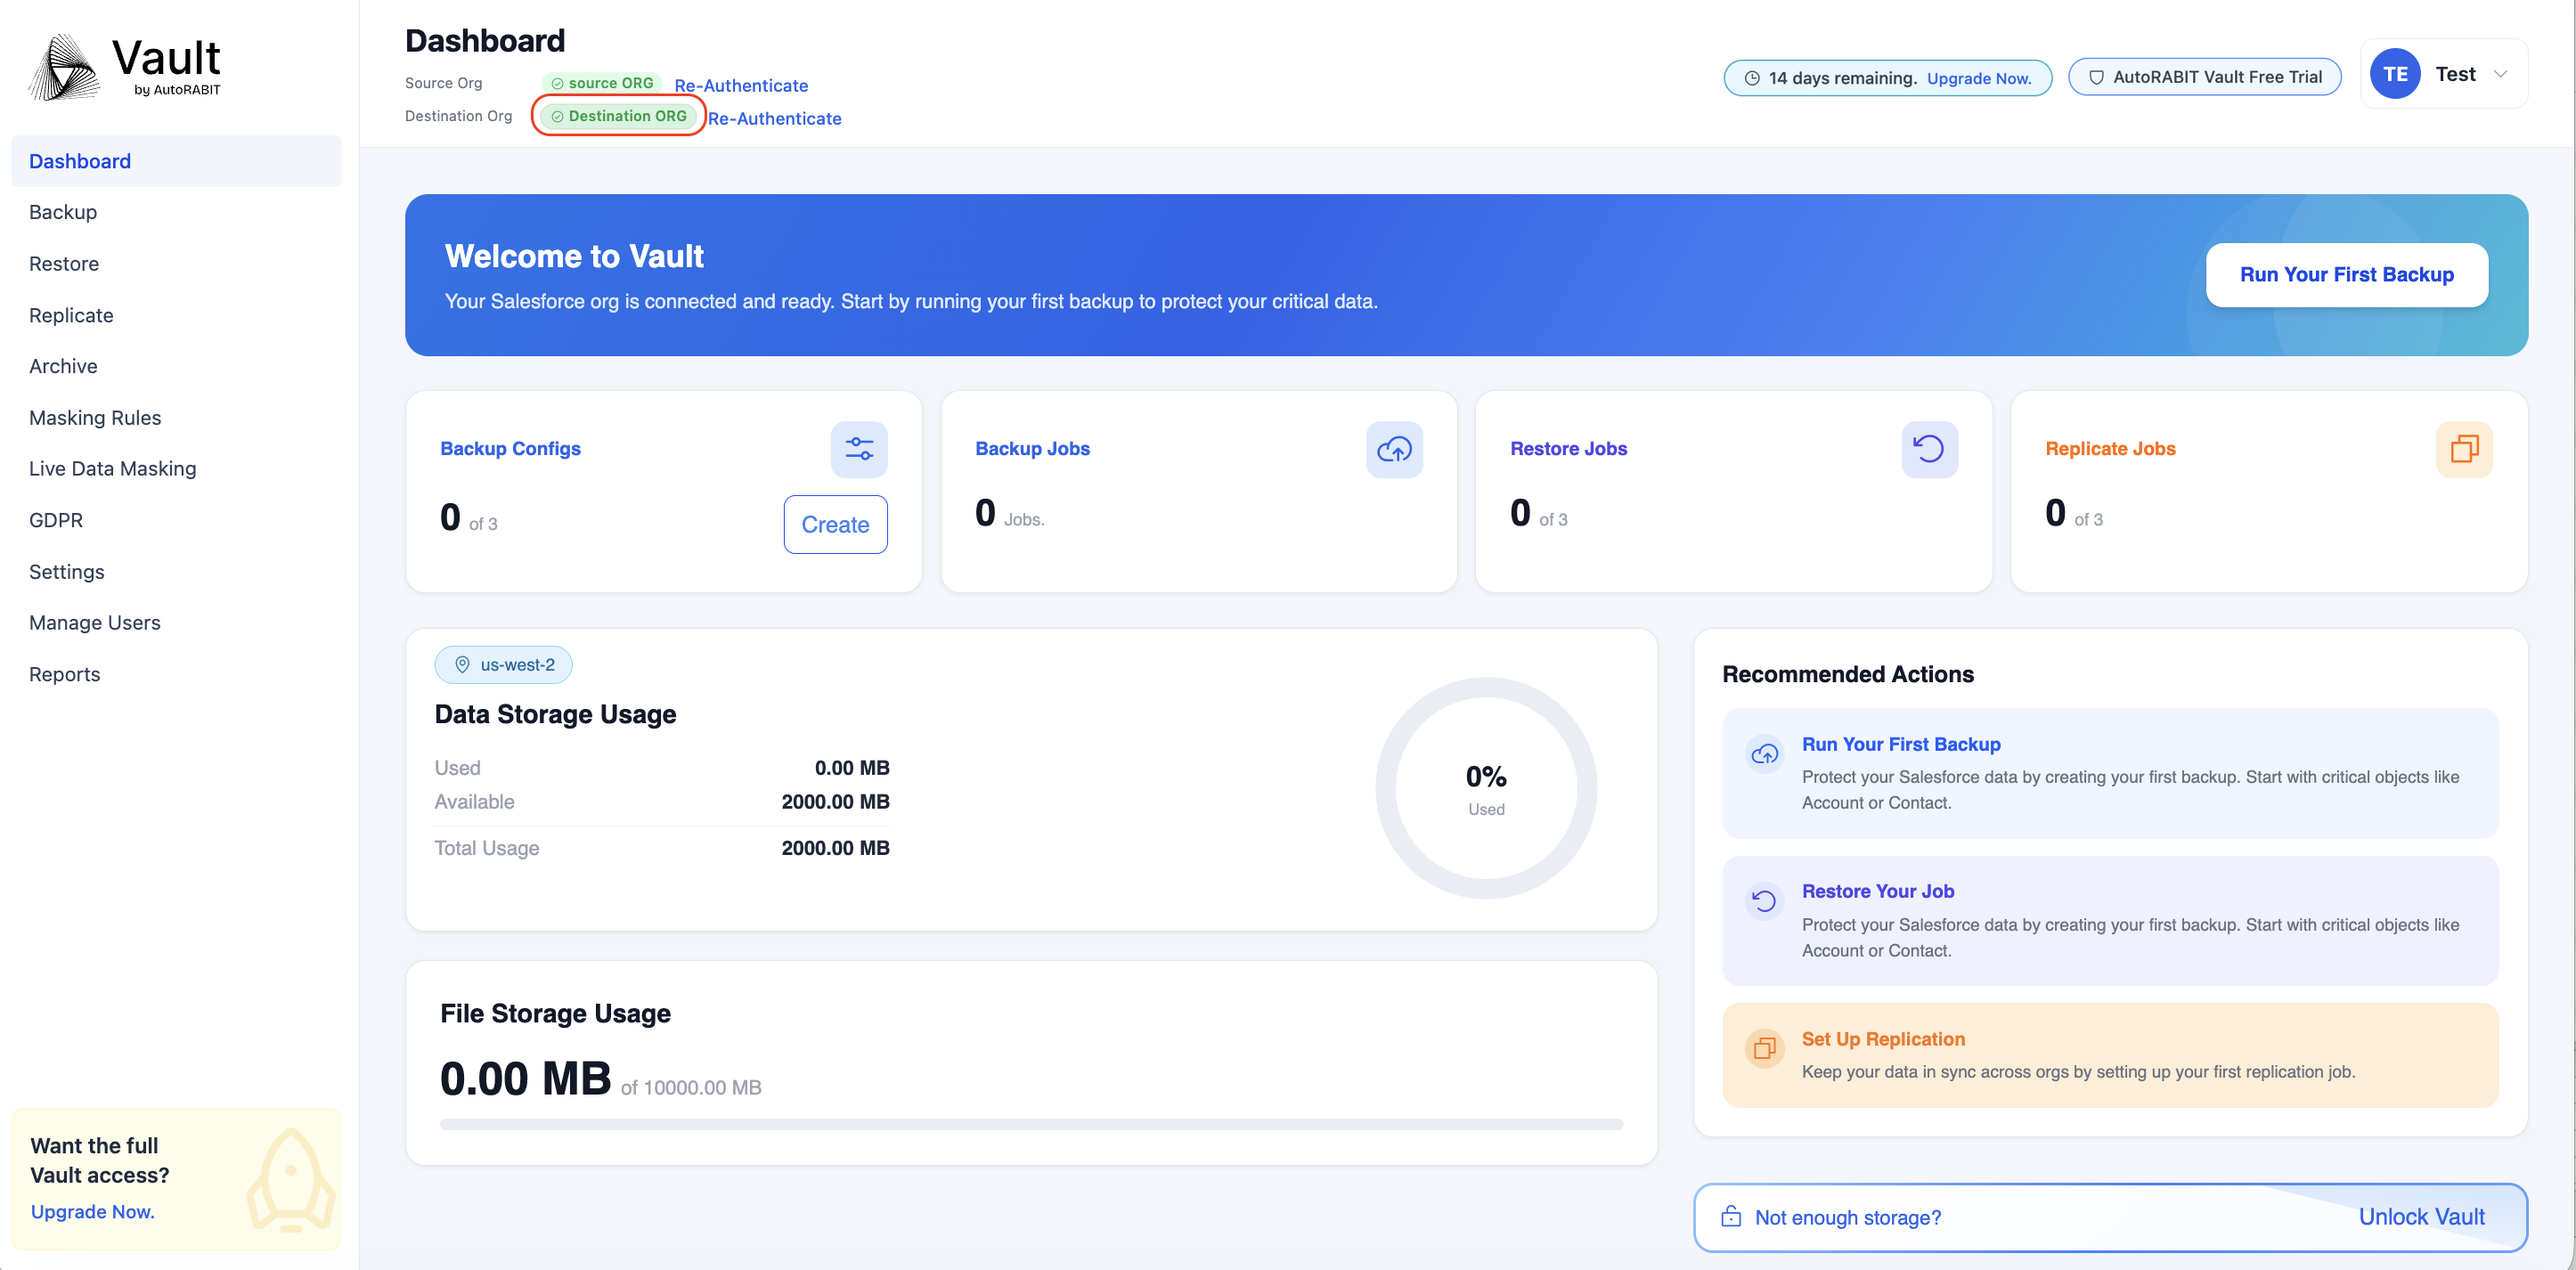
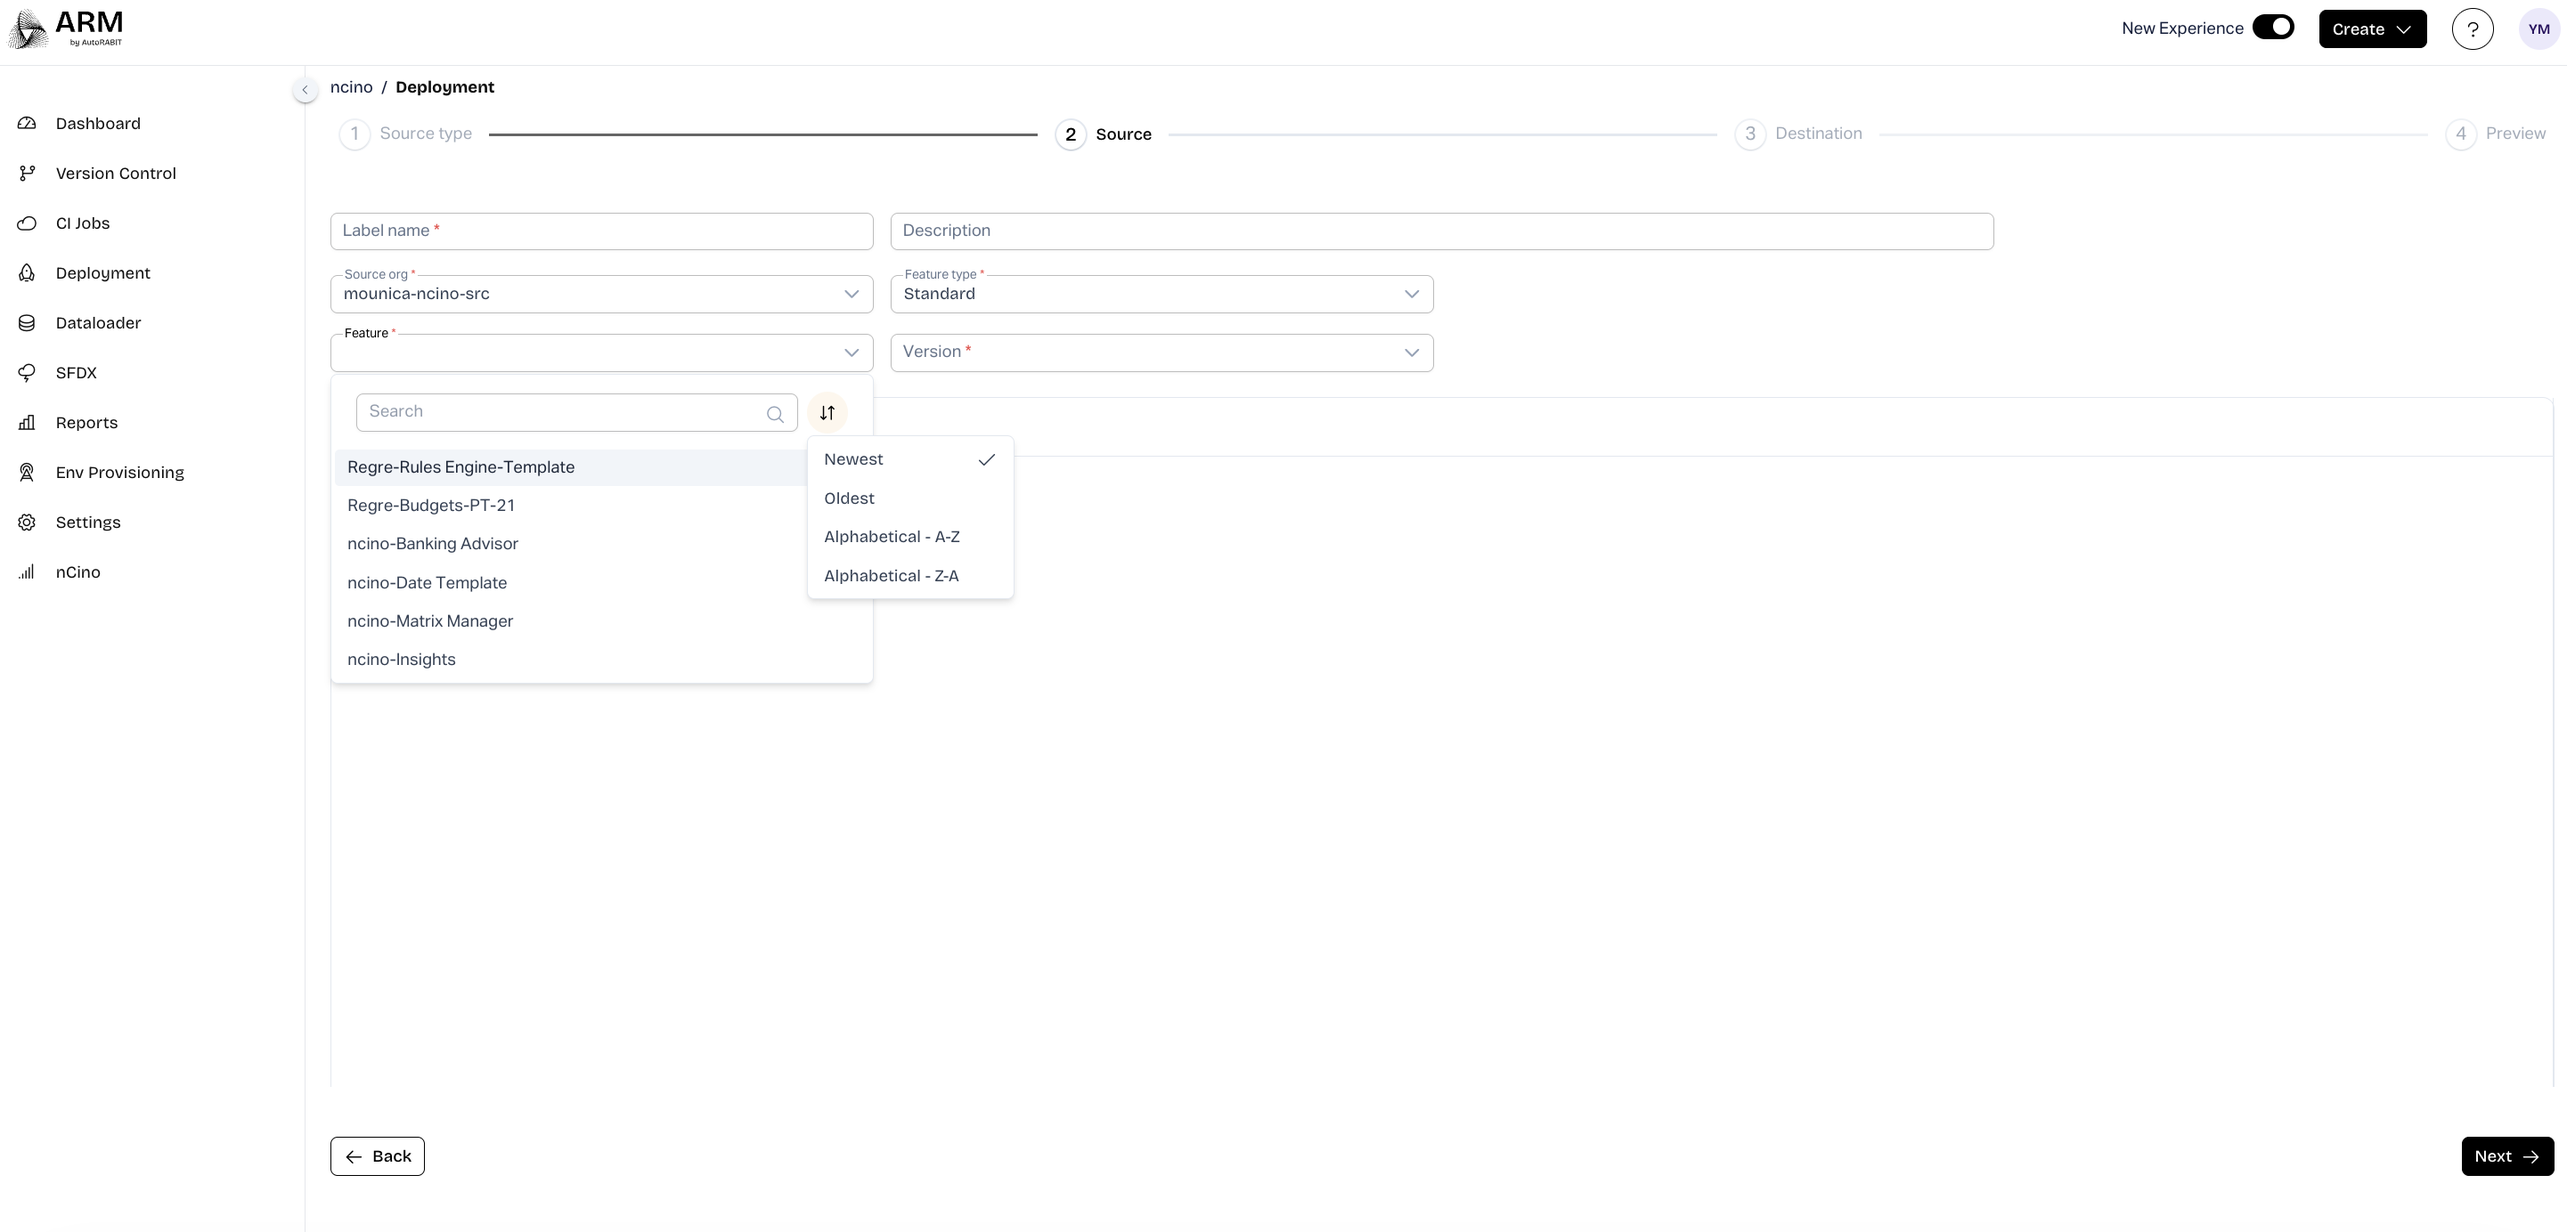
GITBOOK-5541: Publishing User Guide

diff --git a/product-guides/arm-1/arm-features/ncino/feature-deployment/deployment-via-version-control-using-salesforce-org-1.md b/product-guides/arm-1/arm-features/ncino/feature-deployment/deployment-via-version-control-using-salesforce-org-1.md
@@ -39,20 +39,38 @@ This section covers the deployment of **nCino metadata and data** through **vers
       4.  Observe the values selected at the revision
 
           <figure><img src="../../../../../.gitbook/assets/4.1 - Deploy Using SF and VC.png" alt=""><figcaption></figcaption></figure>
-6. Based on the selected revisions, the respective "feature versions" will be displayed.
-7. **`NOTE`:**
+6.  In the nCino Deployment **Source** step, users can sort the **Feature** and **Version** lists for the selected repository and branch.
+
+    1.  The user opens the **Feature** dropdown and clicks the **Sort** icon beside **Search**.
+
+        <figure><img src="../../../../../.gitbook/assets/1 (35).png" alt=""><figcaption></figcaption></figure>
+    2.  The user selects the required sort order:
+
+        | Option                 | Description                                   |
+        | ---------------------- | --------------------------------------------- |
+        | **Newest**             | Displays the newest items first.              |
+        | **Oldest**             | Displays the oldest items first.              |
+        | **Alphabetical - A-Z** | Sorts names in ascending alphabetical order.  |
+        | **Alphabetical - Z-A** | Sorts names in descending alphabetical order. |
+    3.  After selecting a feature, the user opens the **Version** dropdown and uses its **Sort** icon to arrange the available versions.
+
+        <figure><img src="../../../../../.gitbook/assets/2 (35).png" alt=""><figcaption></figcaption></figure>
+
+    A checkmark indicates the selected sort option.
+7. Based on the selected revisions, the respective "feature versions" will be displayed.
+8. **`NOTE`:**
    1. **`No manual merge conflict resolution is supported.`**` `` ``In case of data conflicts, the dataset collected from the source environment will be committed by default, even if corresponding data already exists in the target branch. `
    2. **`Destructive changes are currently not supported.`**` `` ``If a record is deleted in the source environment after being committed to Version Control, subsequent commits will not remove that record from the branch. The previously committed record will remain intact. `
-8.  Click on the "Next" to continue to the "Destination" section of the Feature Deployment flow
+9.  Click on the "Next" to continue to the "Destination" section of the Feature Deployment flow
 
     <figure><img src="../../../../../.gitbook/assets/Screenshot 2026-02-27 at 5.54.35 PM.png" alt=""><figcaption></figcaption></figure>
-9.  You can configure several options for your objects before proceeding with a deployment or commit, including:
+10. You can configure several options for your objects before proceeding with a deployment or commit, including:
 
     * **External Id Mappings**
     * **Applied Filters**
 
     <figure><img src="../../../../../.gitbook/assets/2 - FD Using VC SF.png" alt=""><figcaption></figcaption></figure>
-10. **External ID Mappings**
+11. **External ID Mappings**
 
     This section allows you to use an **External ID** instead of a Salesforce **Record ID** to establish relationships between records during an **Upsert** operation.\
     For example, if **Object B** has a lookup to **Object A**, you can reference a field on Object A marked as an _External ID_ to relate Object B records to the correct Object A records.

diff --git a/product-guides/arm-1/arm-features/ncino/feature-deployment/deployment-using-feature-migration-template-1.md b/product-guides/arm-1/arm-features/ncino/feature-deployment/deployment-using-feature-migration-template-1.md
@@ -1,6 +1,6 @@
 # Deployment Using Feature Migration Template
 
-This article will walk you through deploying nCino data using the Feature Migration template. This provides a step-by-step procedure for creating a fresh migration using the "Deploy from template configuration." If you're referring to this article for the first time, please navigate to [Feature Migration Templates](../feature-migration/create-a-feature-migration-template.md), which guides you through the process of creating a new migration template in AutoRABIT.&#x20;
+This article will walk you through deploying nCino data using the Feature Migration template. This provides a step-by-step procedure for creating a fresh migration using the "Deploy from template configuration." If you're referring to this article for the first time, please navigate to [Feature Migration Templates](../feature-migration/create-a-feature-migration-template.md), which guides you through the process of creating a new migration template in AutoRABIT.
 
 1.  A Feature Deployment can be triggered in the following ways:
 
@@ -15,7 +15,7 @@ This article will walk you through deploying nCino data using the Feature Migrat
 
 <figure><img src="../../../../../.gitbook/assets/2 - Feature Deployment.png" alt=""><figcaption></figcaption></figure>
 
-3. On selecting the "Source Type", the "Source" screen will be displayed.&#x20;
+3. On selecting the "Source Type", the "Source" screen will be displayed.
 
 <figure><img src="../../../../../.gitbook/assets/3 - Feature Deployment.png" alt=""><figcaption></figcaption></figure>
 
@@ -25,7 +25,25 @@ This article will walk you through deploying nCino data using the Feature Migrat
    3. **Feature Type:** Select from either "Standard" or "Community" options.
    4. **Feature:** Select the required feature from the list available.
    5. **Version:** Select from the versions available.
-5. Upon entering the required details, click on 'Next' to continue to the Destination screen.
+5.  The **Feature** and **Version** dropdowns in the nCino Deployment **Source** step provide sorting options to help users locate items.
+
+    1.  The user opens the **Feature** dropdown and clicks the **Sort** icon beside **Search**.
+
+        <figure><img src="../../../../../.gitbook/assets/1 (9).png" alt=""><figcaption></figcaption></figure>
+    2.  The user selects the required sort order:
+
+        | Option                 | Description                                   |
+        | ---------------------- | --------------------------------------------- |
+        | **Newest**             | Displays the newest items first.              |
+        | **Oldest**             | Displays the oldest items first.              |
+        | **Alphabetical - A-Z** | Sorts names in ascending alphabetical order.  |
+        | **Alphabetical - Z-A** | Sorts names in descending alphabetical order. |
+    3.  After selecting a feature, the user opens the **Version** dropdown and follows the same steps to sort its versions.
+
+        <figure><img src="../../../../../.gitbook/assets/2 (9).png" alt=""><figcaption></figcaption></figure>
+
+    A checkmark identifies the selected sort option.
+6. Upon entering the required details, click on 'Next' to continue to the Destination screen.
 
 <figure><img src="../../../../../.gitbook/assets/4 - Feature Deployment.png" alt=""><figcaption></figcaption></figure>
 

diff --git a/product-guides/arm-1/arm-features/ncino/feature-deployment/deployment-using-version-control-1.md b/product-guides/arm-1/arm-features/ncino/feature-deployment/deployment-using-version-control-1.md
@@ -36,15 +36,32 @@ This article describes the process of deploying nCino data via Version Control.
 
            <figure><img src="../../../../../.gitbook/assets/5.1 - Deployment From Version Control.png" alt=""><figcaption></figcaption></figure>
        4. **Revision Range**: This option allows you to specify a commit range from which the revisions are to be deployed.
-       5.
 
        ```
        <figure><img src="../../../../../.gitbook/assets/5.2 - Deployment From Version Control.png" alt=""><figcaption></figcaption></figure>
        ```
-6. **Destination:** Select the destinations onto which the data can be deployed to.
+6.  In the nCino Deployment **Source** step, users can sort the **Feature** and **Version** lists for the selected repository and branch.
+
+    1.  The user opens the **Feature** dropdown and clicks the **Sort** icon beside **Search**.
+
+        <figure><img src="../../../../../.gitbook/assets/1 (34).png" alt=""><figcaption></figcaption></figure>
+    2.  The user selects the required sort order:
+
+        | Option                 | Description                                   |
+        | ---------------------- | --------------------------------------------- |
+        | **Newest**             | Displays the newest items first.              |
+        | **Oldest**             | Displays the oldest items first.              |
+        | **Alphabetical - A-Z** | Sorts names in ascending alphabetical order.  |
+        | **Alphabetical - Z-A** | Sorts names in descending alphabetical order. |
+    3.  After selecting a feature, the user opens the **Version** dropdown and uses its **Sort** icon to arrange the available versions.
+
+        <figure><img src="../../../../../.gitbook/assets/2 (34).png" alt=""><figcaption></figcaption></figure>
+
+    A checkmark indicates the selected sort option.
+7. **Destination:** Select the destinations onto which the data can be deployed to.
    1. **Deploy To:** lists the ORGs that can be selected for deployment.
    2. **Commit To:** Lists the branches selected for deployment to "Version Control".
-7.
+8.
 
 ```
 <figure><img src="../../../../../.gitbook/assets/FD - Deploy from temp config.png" alt=""><figcaption></figcaption></figure>

diff --git a/product-guides/arm-1/arm-features/ncino/feature-deployment/deployment-via-template-using-salesforce-org-1.md b/product-guides/arm-1/arm-features/ncino/feature-deployment/deployment-via-template-using-salesforce-org-1.md
@@ -25,7 +25,25 @@ This article describes the process of deploying the nCino data via the Salesforc
       * Community
    5. **Feature:** Select the required feature
    6. **Version**: Select the version based on the feature selection.
-4. After entering all the details, click on '**Next**' to continue to the "**Destination**" screen.
+4.  In the nCino Deployment **Source** step, users can sort the **Feature** and **Version** lists to locate the required item.
+
+    1.  The user opens the **Feature** dropdown and clicks the **Sort** icon beside **Search**.
+
+        <figure><img src="../../../../../.gitbook/assets/1 (18).png" alt=""><figcaption></figcaption></figure>
+    2.  The user selects a sort option:
+
+        | Option                 | Sort order                              |
+        | ---------------------- | --------------------------------------- |
+        | **Newest**             | Newest items first.                     |
+        | **Oldest**             | Oldest items first.                     |
+        | **Alphabetical - A-Z** | Names in ascending alphabetical order.  |
+        | **Alphabetical - Z-A** | Names in descending alphabetical order. |
+    3.  After selecting a feature, the user opens the **Version** dropdown and uses its **Sort** icon to arrange the available versions.
+
+        <figure><img src="../../../../../.gitbook/assets/2 (32).png" alt=""><figcaption></figcaption></figure>
+
+    A checkmark indicates the selected sort option.
+5. After entering all the details, click on '**Next**' to continue to the "**Destination**" screen.
 
 <figure><img src="../../../../../.gitbook/assets/4 - Feature Deployment (1).png" alt=""><figcaption></figcaption></figure>
 
